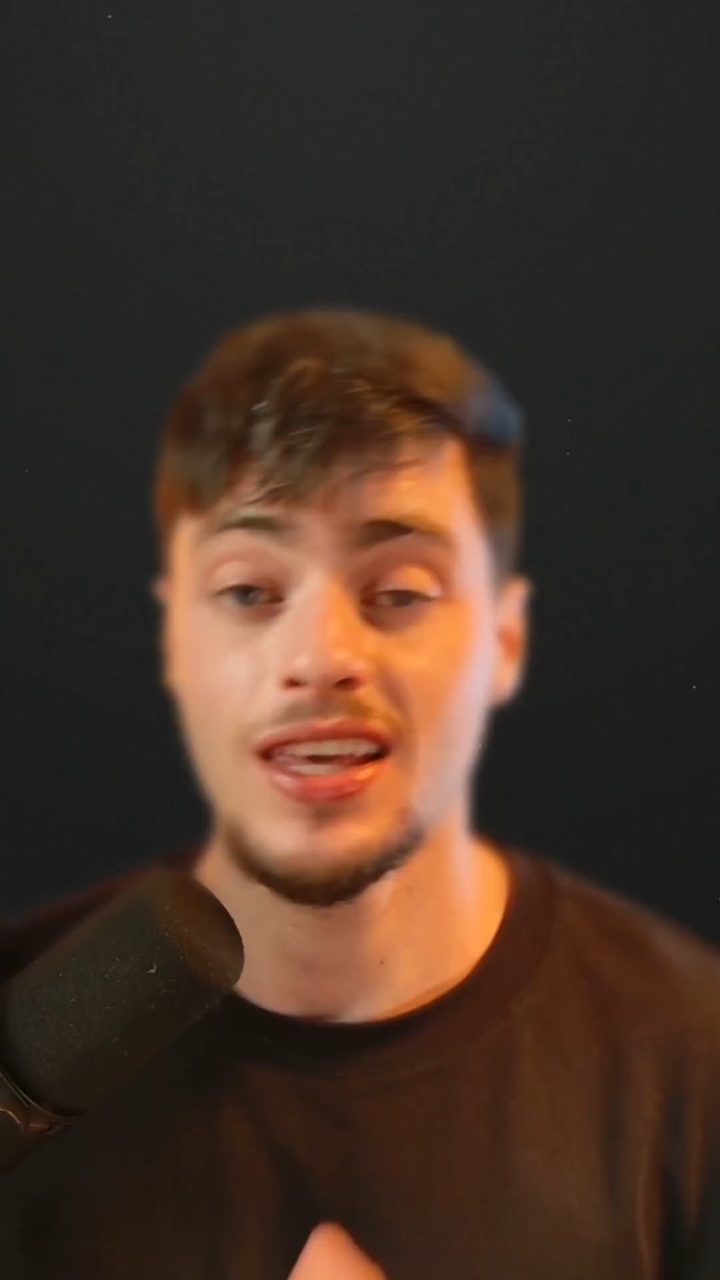
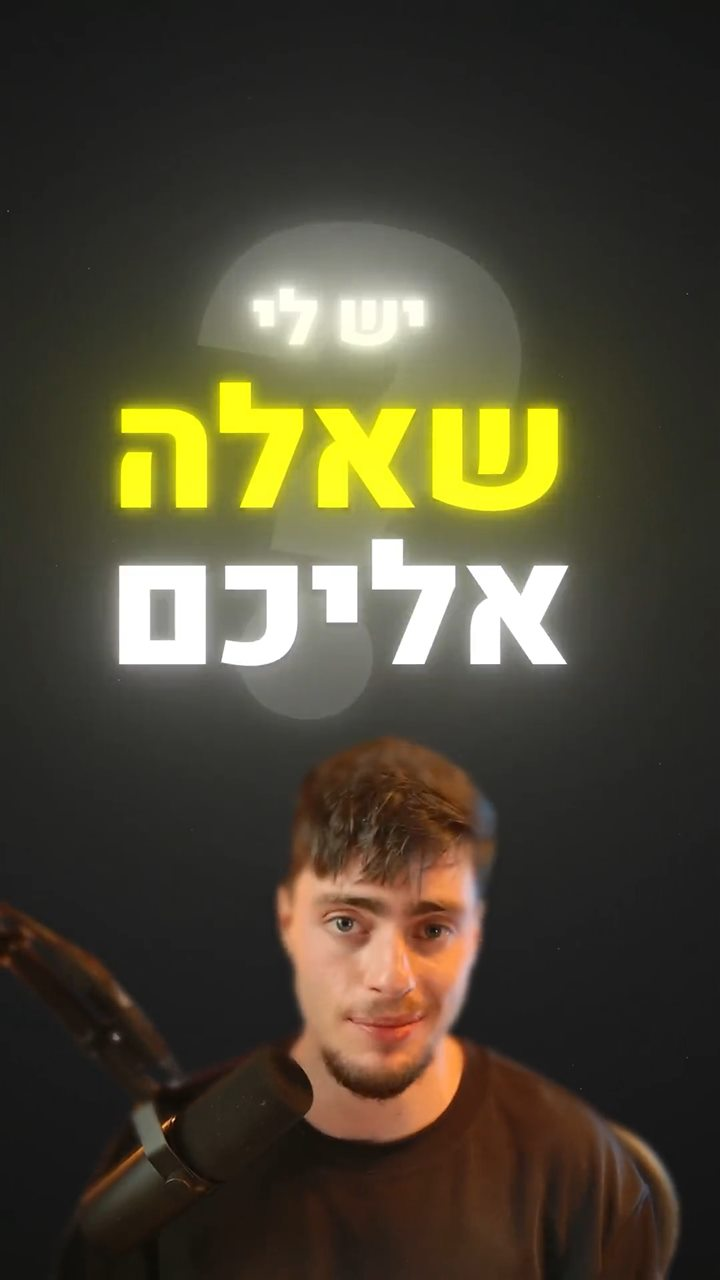
Use chosen stills as video thumbnails

diff --git a/index.html b/index.html
@@ -740,12 +740,12 @@
   const media = p => /^https?:/.test(p) ? p : BASE + encodeURI(p);
 
   const WORKS = [
-    { title:"פרסומת", cat:"campaign", poster:"pngs/daniel-ad.jpg", video:"daniel-ad.mp4", wide:true },
+    { title:"פרסומת", cat:"campaign", poster:"pngs/daniel-ad.jpg?v=2", video:"daniel-ad.mp4", wide:true },
     { title:"קמפיין", cat:"campaign", poster:"pngs/proj32_test.00_00_19_06.Still001.png", video:"proj32_test.mp4", wide:true },
     { title:"רילס", cat:"reels", poster:"pngs/ג7.Still002.png", video:"trymp4.mp4", wide:true },
     { title:"קמפיין מותג", cat:"campaign", poster:"pngs/KV.png", video:"kkkV3.mp4", wide:true },
     { title:"רילס", cat:"reels", poster:"pngs/juicy.png", video:"JUsFFFFF (1).mp4", wide:true },
-    { title:"רילס", cat:"reels", poster:"pngs/reel1.jpg", video:"reel1.mp4" },
+    { title:"רילס", cat:"reels", poster:"pngs/reel1.jpg?v=2", video:"reel1.mp4" },
     { title:"UGC", cat:"ugc", poster:"pngs/UGC.png", video:"UGC 2.mp4" },
     { title:"קמפיין", cat:"campaign", poster:"pngs/all006.png", video:"סרטון 4 - נאמי בלאסט .mp4" },
     { title:"רילס", cat:"reels", poster:"pngs/3wb.png", video:"Sequence 01_1.mp4" },
